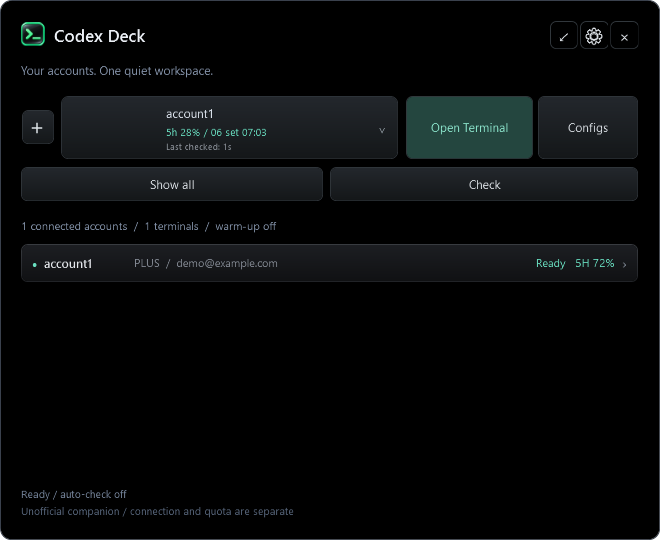
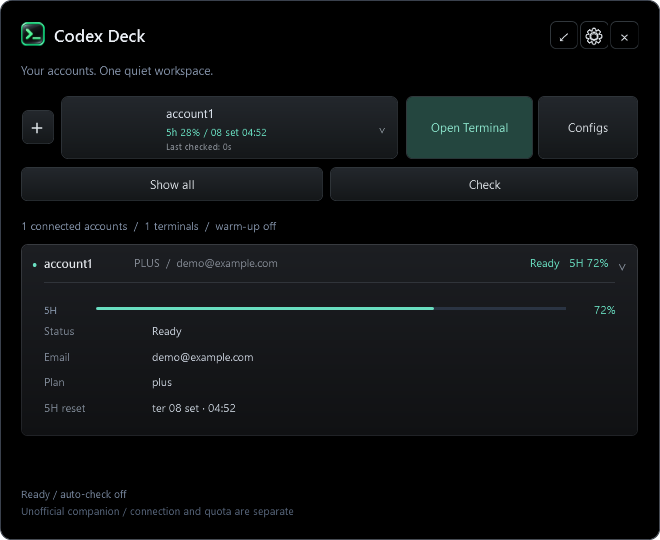
Refresh project documentation and previews for 1.1.0

diff --git a/README.md b/README.md
@@ -1,193 +1,178 @@
 <p align="center">
-  <img src="suite/deck/assets/codex-deck.png" alt="Codex Deck icon" width="104">
+  <img src="suite/deck/assets/codex-deck.png" width="88" alt="Codex Deck">
 </p>
-
 <h1 align="center">Codex Deck</h1>
-
+<p align="center"><strong>One command. Every account. A clear view of your usage.</strong><br>
+A terminal dashboard and desktop companion for multiple Codex CLI accounts on Windows.</p>
 <p align="center">
-  <b>Your accounts. Your usage. One small deck.</b><br>
-  A local Windows companion for people who work with multiple Codex CLI accounts.
-</p>
-
-<p align="center">
-  <a href="https://github.com/xtremexq/CodexDeck/releases/latest"><img src="https://img.shields.io/github/v/release/xtremexq/CodexDeck?style=flat-square&amp;color=69dec0" alt="Latest release"></a>
-  <img src="https://img.shields.io/badge/platform-Windows-5796e6?style=flat-square" alt="Windows">
-  <img src="https://img.shields.io/badge/PowerShell-5.1-5796e6?style=flat-square" alt="PowerShell 5.1">
-  <a href="LICENSE"><img src="https://img.shields.io/badge/license-MIT-69dec0?style=flat-square" alt="MIT license"></a>
   <a href="https://github.com/xtremexq/CodexDeck/actions/workflows/test.yml"><img src="https://github.com/xtremexq/CodexDeck/actions/workflows/test.yml/badge.svg" alt="Windows checks"></a>
+  <img src="https://img.shields.io/badge/Windows-PowerShell%205.1-0078D4" alt="Windows PowerShell 5.1">
+  <a href="LICENSE"><img src="https://img.shields.io/badge/license-MIT-69dec0" alt="MIT license"></a>
 </p>
+<p align="center"><a href="#install">Install</a> · <a href="#terminal-dashboard">Terminal</a> · <a href="#desktop-companion">Desktop</a> · <a href="#commands">Commands</a> · <a href="#help">Help</a></p>
 
-<p align="center">
-  <a href="#quick-start">Quick start</a> ·
-  <a href="#at-a-glance">Features</a> ·
-  <a href="#usage-warmup">Usage Warmup</a> ·
-  <a href="#privacy-and-local-data">Privacy</a> ·
-  <a href="#troubleshooting">Help</a>
-</p>
+<p align="center"><img src="docs/terminal.png" width="1040" alt="Terminal dashboard showing synthetic accounts, remaining quota bars, reset times, sessions and keyboard shortcuts"><br>
+<sub>Synthetic terminal preview rendered from the dashboard's actual frame builder. No real account data.</sub></p>
 
----
+## Your accounts, together
 
-<p align="center"><img src="docs/panel.png" width="660" alt="Codex Deck panel with a synthetic account and quota information"><br><sub>Synthetic preview. No real account data.</sub></p>
+Run **`codex-auth`** to see your local accounts and their cached usage immediately. Check fresh limits in the background, find the profile you need, and launch Codex from the same terminal. Keep the floating desktop widget nearby when you want usage visible while you work.
 
-## At a glance
+| Terminal dashboard | Desktop companion |
+| --- | --- |
+| Search and navigate accounts with the keyboard | Switch between a control panel and floating widget |
+| See quota bars, plans, reset times and attached sessions | Keep usage nearby with tray access and optional always-on-top |
+| Refresh one account or queue every account | Run manual checks or enable automatic polling |
+| Launch Codex, log in, or create a profile | Choose a launch folder and customize visible details |
+| Print a cached snapshot for scripts | Configure optional, quota-consuming warm-up requests |
 
-| Accounts & terminals | Usage & visibility |
-| :--- | :--- |
-| Separate local Codex profiles | Check visible accounts with one button |
-| Named accounts from the **+** button | Optional automatic checks for connected accounts |
-| Launch in a default folder or choose each time | Usage percentages, reset times, and cached status |
-| Edit account config and global defaults | Optional usage details in the account picker |
+Codex Deck is an unofficial, independent project. It uses your existing Codex CLI installation and accounts; it does not supply accounts or additional quota.
 
-| Your desktop | Your preferences |
-| :--- | :--- |
-| Black panel with expandable account rows | Settings grouped into four tabs |
-| Small floating widget and tray access | Compact rows start collapsed |
-| Independent panel and widget sizing | Email masking and detail visibility controls |
-| Closing Deck leaves account terminals running | Always on top, automatic checks, and warmup start off |
+## Install
 
-This is an unofficial project, independent of OpenAI. It does not provide accounts, extra quota, or a Codex subscription.
+**Requires Windows, Windows PowerShell 5.1, and Codex CLI available as `codex`.** The desktop companion uses WPF and the Windows system tray. Linux and macOS are not supported. No administrator account is required.
 
-## Quick start
-
-**Requirements:** Windows with Windows PowerShell 5.1, a desktop session, and Codex CLI installed and available as `codex`. WPF and Windows tray integration mean this version does **not** run on Linux or macOS. The installer does not install Codex or require an administrator account.
-
-1. Download **CodexDeck-1.0.0.zip** from [Releases](https://github.com/xtremexq/CodexDeck/releases/latest) and extract it.
-2. Open PowerShell in the extracted folder and run:
-
-   ```powershell
-   powershell.exe -NoProfile -ExecutionPolicy Bypass -File .\Install-CodexDeck.ps1
-   ```
-
-3. Open a **new terminal**, then start your first profile:
-
-   ```powershell
-   codex-auth account1
-   ```
-
-4. Follow Codex's sign-in flow. Open `codex-deck` to manage profiles and use **Check** to fetch usage.
-
-The installer copies scripts and icons into `%USERPROFILE%\.codex-loop` and command wrappers into `%USERPROFILE%\.local\bin`, adding the latter to your user PATH. Source archives from GitHub work with the same installer. Scripts are unsigned; review them before running. Execution policy bypass above applies to that process only.
-
-## Everyday controls
-
-| Control | What it does |
-| :--- | :--- |
-| **+** | Create a named profile; a numbered account name is suggested |
-| Account picker + **Open terminal** | Launch the selected profile in your chosen folder |
-| **Configs → Account config** | Edit the selected account's TOML configuration |
-| **Configs → Defaults** | Edit global defaults used to seed new profiles |
-| **Show all** | Include disconnected local profiles in the panel |
-| **Check** | Queue checks for visible accounts, including disconnected ones when Show all is active |
-| Row arrow | Expand account details; the widget grows within available screen space |
-| View switch | Move between the panel and floating widget |
-| Close / tray menu | Hide, restore, open settings, or quit Deck |
-
-Global defaults are not a second config for the selected account. Existing account choices are preserved; config changes apply on the next launch. The editor makes backups and detects conflicts, but does not validate TOML syntax.
-
-Closing the window hides Deck to the tray by default. **Quit** exits monitoring and stops pending warmup work; it does not close account terminals. Tray icons may appear in Windows' notification overflow. Connection indicators track terminals launched through `codex-auth`, not whether Codex is actively generating.
-
-### Command reference
+Download **[CodexDeck-1.1.0.zip](https://github.com/xtremexq/CodexDeck/releases/download/1.1.0/CodexDeck-1.1.0.zip)** from [the latest release](https://github.com/xtremexq/CodexDeck/releases/latest), extract it, then run the installer in that folder:
 
 ```powershell
-codex-deck                       # Open or reveal Deck
-codex-auth account1              # Launch an isolated profile
-codex-auth work-main             # Custom profile name
+powershell.exe -NoProfile -ExecutionPolicy Bypass -File .\Install-CodexDeck.ps1
+```
+
+Or install from source:
+
+```powershell
+git clone https://github.com/xtremexq/CodexDeck.git
+cd CodexDeck
+powershell.exe -NoProfile -ExecutionPolicy Bypass -File .\Install-CodexDeck.ps1
+```
+
+The [main-branch ZIP](https://github.com/xtremexq/CodexDeck/archive/refs/heads/main.zip) also works with the same installer. Release assets include a SHA-256 checksum.
+
+Open a **new terminal** and run:
+
+```powershell
+codex-auth
+```
+
+Press **N** to create a profile and sign in. Already have local profiles under `.codex-loop/accounts`? They appear automatically. You can also create or open one directly with `codex-auth account1`.
+
+The installer adds command wrappers to your user PATH and preserves existing account data. Codex CLI is installed separately. The execution-policy flag applies only to the installer process.
+
+## Terminal dashboard
+
+### A few keys cover the everyday work
+
+| Key | Action |
+| --- | --- |
+| **↑ / ↓** | Select an account |
+| **Page Up / Page Down**, **Home / End** | Navigate a longer list |
+| **Enter** | Launch Codex; return to the dashboard when it exits |
+| **R** | Refresh the selected account |
+| **A** | Queue fresh checks for every account |
+| **/** | Search account names |
+| **L** | Log in to the selected account |
+| **N** | Create a new profile and log in |
+| **D** | Open the desktop companion |
+| **M** | Toggle email masking; masking starts enabled |
+| **Esc** | Clear the search, or quit when no search is active |
+| **Q** | Quit the dashboard |
+
+Cached usage appears first. Authenticated accounts with missing or more-than-five-minute-old results are checked automatically, with up to three checks running at once. The panel stays responsive while checks run. Opening it does not send a warm-up prompt.
+
+**Bars show quota remaining.** Primary is the five-hour window, or another plan-specific window such as a free account's longer allowance. Weekly is shown separately when available. `?` means the value is unknown; it does not mean zero. Reset timestamps use your local time. **Reset passed** means the displayed value needs a fresh check.
+
+The selected account's details show its model, reasoning effort, last check and attached terminal sessions. A connected session means a terminal launched through `codex-auth`; it does not necessarily mean Codex is generating a response.
+
+For a non-interactive view, use **`codex-auth status`**. It prints cached data without network requests. Redirecting the bare command's input or output also selects snapshot mode.
+
+## Desktop companion
+
+<p align="center"><img src="docs/panel.png" width="660" alt="Codex Deck desktop control panel with a synthetic account and expanded usage details"><br>
+<sub>Current main-branch desktop UI, captured with the built-in synthetic smoke test.</sub></p>
+
+Run **`codex-deck`**, or press **D** in the terminal dashboard.
+
+- **Open Terminal** launches the selected account in your default or chosen folder.
+- **Show all** includes disconnected profiles; **Check** requests usage for the visible accounts.
+- Switch between the **panel** and **widget**, then expand account rows for more detail.
+- **Settings** controls appearance, visible fields, email masking, automatic checks and warm-up.
+- Closing the window normally hides it to the tray. **Quit** stops Deck's monitoring without closing your Codex terminals.
+
+Desktop automatic checks are off by default. Enable them in Settings if you want continued polling. Terminal startup checks and desktop polling are separate controls.
+
+### Optional warm-up
+
+Warm-up is off by default and requires automatic checking plus eligible account selection. After observing an eligible paid account's five-hour reset and verifying fresh zero usage, Deck can send a small prompt after a grace period. It skips unsupported plans, unavailable quotas and missed reset windows, and records attempts to avoid repeats.
+
+**Warm-up consumes real quota.** A successful prompt does not guarantee that a new usage timer starts. Leave it disabled if you only want monitoring.
+
+## Commands
+
+```powershell
+codex-auth                       # Interactive terminal dashboard
+codex-auth status                # Cached snapshot; no network
 codex-auth list                  # List local profiles
-codex-auth account1 -del         # Archive an inactive profile for recovery
-codex-check                      # Usage report
+codex-auth account1              # Launch an account
+codex-auth 2                     # Shorthand for account2
+codex-auth work-main             # Use a named profile
+codex-auth account1 login        # Sign in to that profile
+codex-auth account1 login status # Ask Codex for login status
+codex-auth account1 -del         # Move an inactive profile to recovery
+codex-deck                       # Open the desktop companion
+codex-check                      # Fetch a usage report
 codex-check -Account account1    # Check one account
-codex-check -Json                # Machine-readable output
-codex-check -NoColor             # Plain output
+codex-check -Json                # Machine-readable usage report
+codex-check -NoColor             # Plain-text usage report
 ```
 
-New profiles can inherit config, rules, and skills from an existing local profile. Authentication is separate. Account instructions use a shared `accounts/AGENTS.shared.md` file linked into profiles.
+Each profile has a separate `CODEX_HOME`. New profiles can inherit local configuration, rules and skills; authentication remains separate. Deletion keeps a recovery copy and refuses an account with a tracked connected terminal.
 
-## Settings and checks
+## Local data and privacy
 
-| Tab | Options |
-| :--- | :--- |
-| **Appearance** | View mode, compact rows, always on top, close-to-tray, start with account terminals, opacity, default folder, always ask for folder |
-| **Details** | Email, plan, quota, resets, optional diagnostics, email masking, widget details, account-picker usage |
-| **Checks** | Enable automatic checks, polling interval, minimum request spacing |
-| **Usage Warmup** | Enable warmup, select accounts and model, tune reset grace and maximum delay |
+Deck has no hosted backend. Usage checks use local Codex authentication to contact upstream services, with a Codex app-server fallback. These integrations depend on the installed CLI and upstream behavior.
 
-Email, plan, quota, and reset details start enabled for the panel. Account-picker usage is optional: it shows colored **percentage used / next local reset** and a gray relative last-check age. Deck displays the windows returned by the account, including five-hour, weekly, or monthly windows when present; it does not fabricate missing limits from the plan name.
+Paths below are relative to your Windows user profile:
 
-Automatic checks start **disabled**. When enabled, only connected accounts are polled, normally every ten minutes. Requests are serialized with a default twenty-second gap. Minimum settings are five minutes between regular account checks and fifteen seconds between requests. Manual checks respect spacing and a one-minute account cooldown. Failures back off; cached data is labeled. **Show all** changes visibility, not automatic polling scope.
+| Path | What lives there |
+| --- | --- |
+| `.codex-loop/accounts/` | Per-account sign-ins, configuration and Codex data |
+| `.codex-loop/deleted-accounts/` | Recoverable removed profiles |
+| `.codex-loop/deck/` | Preferences, usage caches, session records and warm-up history |
+| `.local/bin/` | Installed command wrappers |
 
-## Usage Warmup
+Email masking affects the display, not the saved cache. Recovery copies can contain sign-ins. Keep live installation data and account exports out of GitHub; see [SECURITY.md](SECURITY.md).
 
-Warmup is **off by default** and requires explicit account selection and confirmation. The default model is `gpt-5.6-luna` with low reasoning effort; the selector loads available models through Codex and caches the list. Availability depends on the installed CLI and account.
+The terminal writes `terminal-cache.json` separately from the desktop's `cache.json` and reads the newest records from both when it opens.
 
-For a connected eligible paid account, Deck can observe a five-hour reset, verify fresh zero usage after a grace period, and send a tiny non-interactive prompt. Automatic checks must also be enabled. Free, Go, unknown plans, exhausted or unknown quota, already-used windows, and missed events outside the configured delay are skipped.
+## Update or remove
 
-Attempts are persisted before execution, limited to one per observed reset, with a four-hour account cooldown and no automatic retry. The request uses an empty working directory, ephemeral execution, a read-only sandbox, and no approvals. **This consumes real quota. A successful prompt does not guarantee that a new usage timer starts.**
-
-## Privacy and local data
-
-Deck has no hosted backend. Usage checks contact OpenAI services using local Codex authentication, with a CLI app-server fallback. These integrations can change upstream.
-
-| Local location | Contents |
-| :--- | :--- |
-| `.codex-loop/accounts` | Credentials, account config, Codex sessions, rules, and skills |
-| `.codex-loop/deleted-accounts` | Recovery archives, which can contain credentials |
-| `.codex-loop/deck` | Settings, email/usage cache, session leases, and warmup outcomes |
-| `.local/bin` | Command wrappers |
-
-All paths are relative to your Windows user profile. Protect runtime data like credentials. Email masking is visual; it does not remove values from the local cache. Never upload a live installation directory. This repository and release include only source, tests, documentation, and app assets. See [SECURITY.md](SECURITY.md).
-
-## Updating and removal
-
-Deck starts with `codex-auth` when its autostart option is enabled; this is not Windows sign-in startup.
-
-Quit Deck before rerunning a newer installer. Account terminals can stay open. The installer preserves account/state directories and backs up replaced source files alongside them; restart Deck afterward.
-
-To remove the app, quit it and disable autostart in Settings first. Remove the four `codex-*` wrappers installed in `.local/bin` and the Deck source files from `.codex-loop`. Keep account directories if you want to retain credentials/history. Remove `.local/bin` from PATH only if no other tools use it. The installer deliberately has no automatic account-data deletion step.
-
-## Troubleshooting
-
-| Symptom | Check |
-| :--- | :--- |
-| Command not found after install | Open a new terminal; confirm `.local/bin` is on your user PATH |
-| `codex` is missing | Install Codex CLI separately and verify `codex --version` |
-| No account entries | Create a profile with `codex-auth account1`; use Show all for disconnected profiles |
-| No fresh usage | Press Check and allow the queue to run; check authentication and error status |
-| Auto-check appears idle | Enable it in Checks; only connected accounts are automatically checked |
-| Window is gone | Look in the tray overflow, or run `codex-deck` to reveal it |
-| Model list is unavailable | Verify CLI/account access; a cached/default model may remain visible |
-| Linux or macOS startup fails | This WPF release is Windows-only; a UI port is required |
-
-## Development
+To update a Git installation:
 
 ```powershell
-powershell.exe -NoProfile -File .\suite\Test-Deck.ps1
-powershell.exe -NoProfile -File .\suite\Test-DeckScheduler.ps1
-powershell.exe -NoProfile -File .\suite\Test-CodexAuth.ps1
-powershell.exe -NoProfile -File .\suite\Test-CodexLoopUsage.ps1
-powershell.exe -NoProfile -STA -File .\suite\Codex-Deck.ps1 -SmokeTest
-powershell.exe -NoProfile -STA -File .\suite\Codex-Deck.ps1 -LifecycleTest
+git pull --ff-only
+powershell.exe -NoProfile -ExecutionPolicy Bypass -File .\Install-CodexDeck.ps1
 ```
 
-Tests use synthetic data and temporary fixtures; smoke/lifecycle modes make no usage or warmup requests. `-Demo` opens a synthetic widget; add `-PreviewMode Panel` to preview the panel. Install the app for normal use: launching the source directly is not a portable installation.
+Close the terminal dashboard and quit desktop Deck before updating, then reopen them afterward. The installer preserves account/state directories, backs up replaced files and skips unchanged payloads.
 
-The `suite/` directory contains WPF UI, theme, state/scheduler logic, usage adapter, and tests; `bin/` contains command wrappers. See [Contributing](CONTRIBUTING.md) and the [Changelog](CHANGELOG.md).
+To remove Deck, quit it and remove its installed scripts and command wrappers. Keep `.codex-loop/accounts` if you want to retain your profiles and history. Only remove `.local/bin` from PATH if no other tools use it. There is no automatic account-data deletion during uninstall.
 
-Run `./Test-Repository.ps1` for repository privacy/encoding checks. After committing, `./Build-Release.ps1 -Version 1.0.0` produces a source-only ZIP and SHA-256 checksum in `dist/` using `git archive`. No runtime directories are included. The project is distributed under the [MIT license](LICENSE); the app icon was created with AI assistance.
+## Help
 
----
+| Problem | Try this |
+| --- | --- |
+| `codex-auth` is not found | Open a new terminal; check that `.local/bin` is on your user PATH |
+| `codex` is not found | Install Codex CLI separately and confirm `codex --version` works |
+| The dashboard only prints once | Run it in an interactive terminal without input/output redirection |
+| No profiles appear | Press **N**, or run `codex-auth account1`; clear any search filter |
+| Usage is old or unavailable | Press **R**; check `codex-auth account1 login status` and `codex-check -Account account1` |
+| The desktop window disappeared | Check the tray overflow or run `codex-deck` |
+| Automatic desktop checks are idle | Enable them in Settings and check which profiles are visible |
 
-<p align="center"><b>Codex Deck</b><br><sub>A little less account juggling. A little more room to work.</sub><br><a href="https://github.com/xtremexq/CodexDeck/issues">Report a bug or suggest a feature</a></p>
+[Report a bug](https://github.com/xtremexq/CodexDeck/issues) with the command, expected behavior and sanitized error output. Do not attach live account files.
 
-## Terminal account dashboard
+## For contributors
 
-Run **`codex-auth`** with no arguments to open the keyboard-driven admin panel. It displays cached quota bars immediately, refreshes missing or older-than-five-minute usage in the background (up to three accounts at a time), and shows plan, model, reset timestamps and connected sessions. Checks use the existing usage reader; opening the panel does not send a warm-up prompt. Cached values retain their check timestamp; a passed reset is explicitly marked.
+Source is in `suite/`; command wrappers are in `bin/`. Documentation images use synthetic data. Tests and build scripts belong in this repository: `Test-Repository.ps1` checks for private/generated files, script parse errors, encoding mistakes and whitespace, and is used by CI and release builds.
 
-- **Up/Down**, **Page Up/Down**, **Home/End**: select an account.
-- **Enter**: launch Codex in the current terminal and return to the panel when it exits.
-- **R / A**: refresh the selected account / all accounts.
-- **/**: filter account names; **Esc** clears the filter or exits.
-- **L / N**: log in to the selected account / create and log in to a new account.
-- **D**: open desktop Deck, including its scheduling and warm-up settings.
-- **M**: toggle email masking (masked by default). **Q**: quit.
-
-`codex-auth status` prints a cached snapshot without network requests. Redirected input/output also uses snapshot mode so scripts never hang waiting for a key. Existing `list`, account launch, login and deletion commands remain available. The panel stores usage results in `deck/terminal-cache.json`, separate from the desktop writer, and reads the latest records from both caches. No new dependencies are required.
+See [CONTRIBUTING.md](CONTRIBUTING.md) for checks and screenshot generation, [CHANGELOG.md](CHANGELOG.md) for release history, and [LICENSE](LICENSE) for the MIT license.

diff --git a/CONTRIBUTING.md b/CONTRIBUTING.md
@@ -2,8 +2,39 @@
 
 Use Windows PowerShell 5.1. Keep runtime data outside your checkout, and never copy a live `.codex-loop` directory into a pull request.
 
-Run the four `suite/Test-*.ps1` scripts and `powershell.exe -NoProfile -STA -File suite/Codex-Deck.ps1 -SmokeTest`. See the README for lifecycle testing. Use synthetic fixtures only; do not add real account responses or screenshots.
+## Checks
+
+Run repository checks, the regression suite and the WPF smoke test from the checkout root:
+
+```powershell
+./Test-Repository.ps1
+Get-ChildItem ./suite/Test-*.ps1 | ForEach-Object {
+    & powershell.exe -NoProfile -ExecutionPolicy Bypass -File $_.FullName
+    if ($LASTEXITCODE -ne 0) { throw "Failed: $($_.Name)" }
+}
+powershell.exe -NoProfile -STA -ExecutionPolicy Bypass -File ./suite/Codex-Deck.ps1 -SmokeTest
+```
+
+For changes to window lifetime, also run `powershell.exe -NoProfile -STA -File ./suite/Codex-Deck.ps1 -LifecycleTest`. Fixtures must be synthetic; do not add real account responses or screenshots.
+
+`Test-Repository.ps1` is intentional project tooling, used by CI and `Build-Release.ps1`. Keep it, the regression tests, installer, release builder and contributor/security documentation in source control. Generated release archives, credentials, caches, backups and local editor settings do not belong in Git.
+
+## UI previews
+
+Regenerate the desktop screenshot from the committed code using synthetic state:
+
+```powershell
+powershell.exe -NoProfile -STA -ExecutionPolicy Bypass -File ./suite/Codex-Deck.ps1 -SmokeTest -PreviewMode Panel -PreviewExpanded -ScreenshotPath "$PWD/docs/panel.png"
+```
+
+`docs/terminal.png` is a synthetic rendering of `Get-DeckTerminalFrame` from `suite/Deck.Terminal.ps1`, with the frame's text and console colors. Keep its caption explicit about this being a rendered preview. Use example account identities and project paths only.
+
+`-Demo` opens a synthetic widget; add `-PreviewMode Panel` for the panel. Install the app for normal use rather than treating the source checkout as a portable installation.
+
+## Changes and releases
 
 Preserve UTF-8 BOM in PowerShell scripts for Windows PowerShell 5.1. Batch files must have no BOM. Git attributes normalize line endings automatically.
 
-Explain the behavior change and validation in your pull request. Changes to polling, credential handling, process lifetime, or warmup need regression coverage. UI changes should include a synthetic preview.
+Explain the behavior change and validation in your pull request. Changes to polling, credential handling, process lifetime or warm-up need regression coverage. UI changes should include a synthetic preview.
+
+After committing, `./Build-Release.ps1 -Version <major.minor.patch>` creates a source ZIP and SHA-256 checksum in `dist/` using `git archive`. Only committed files enter the archive. Installable archives include the suite tests referenced by the installer.
